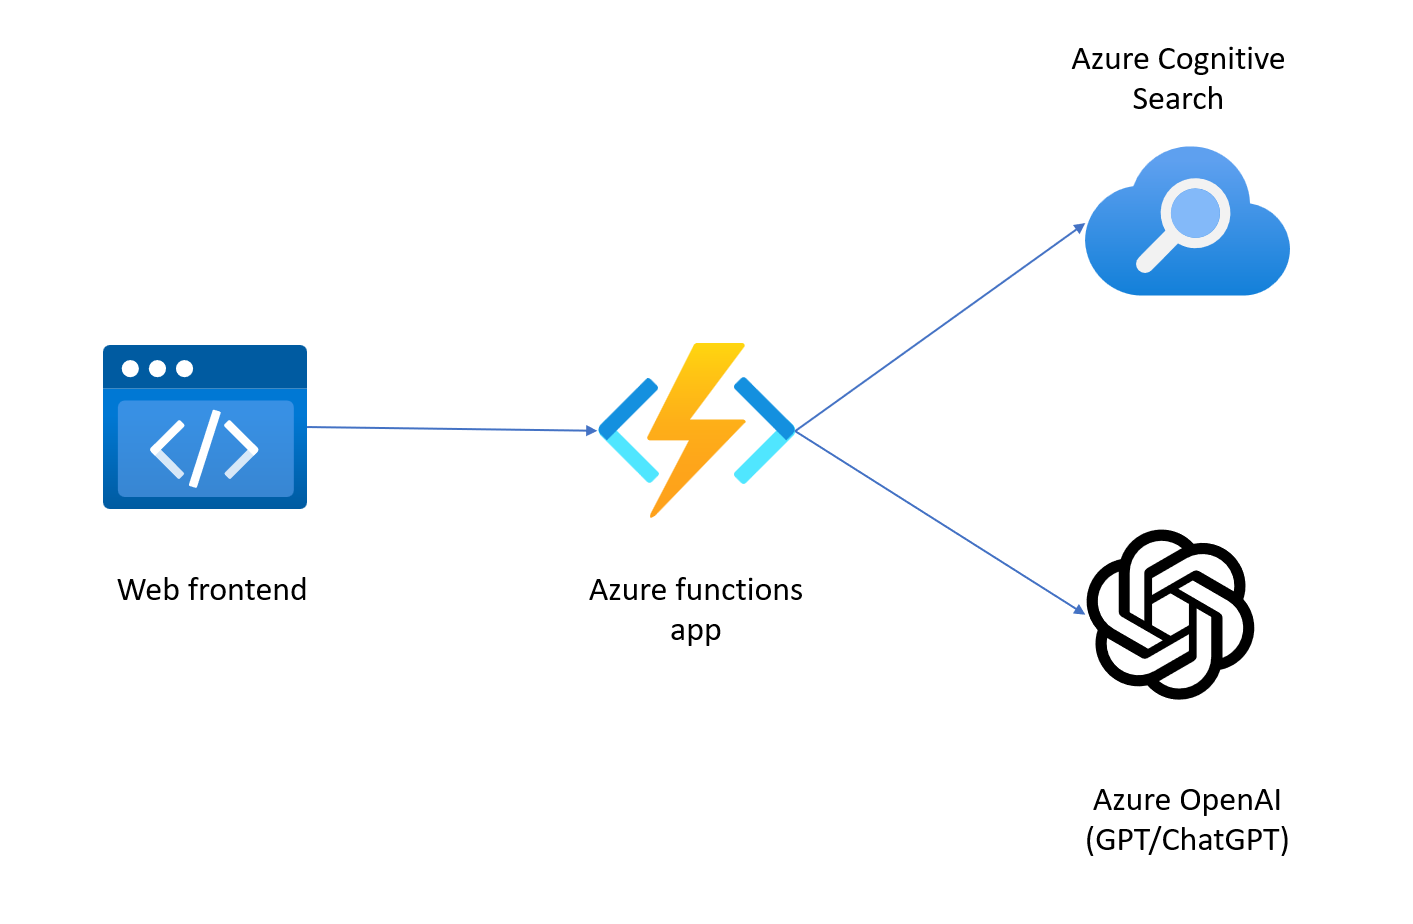
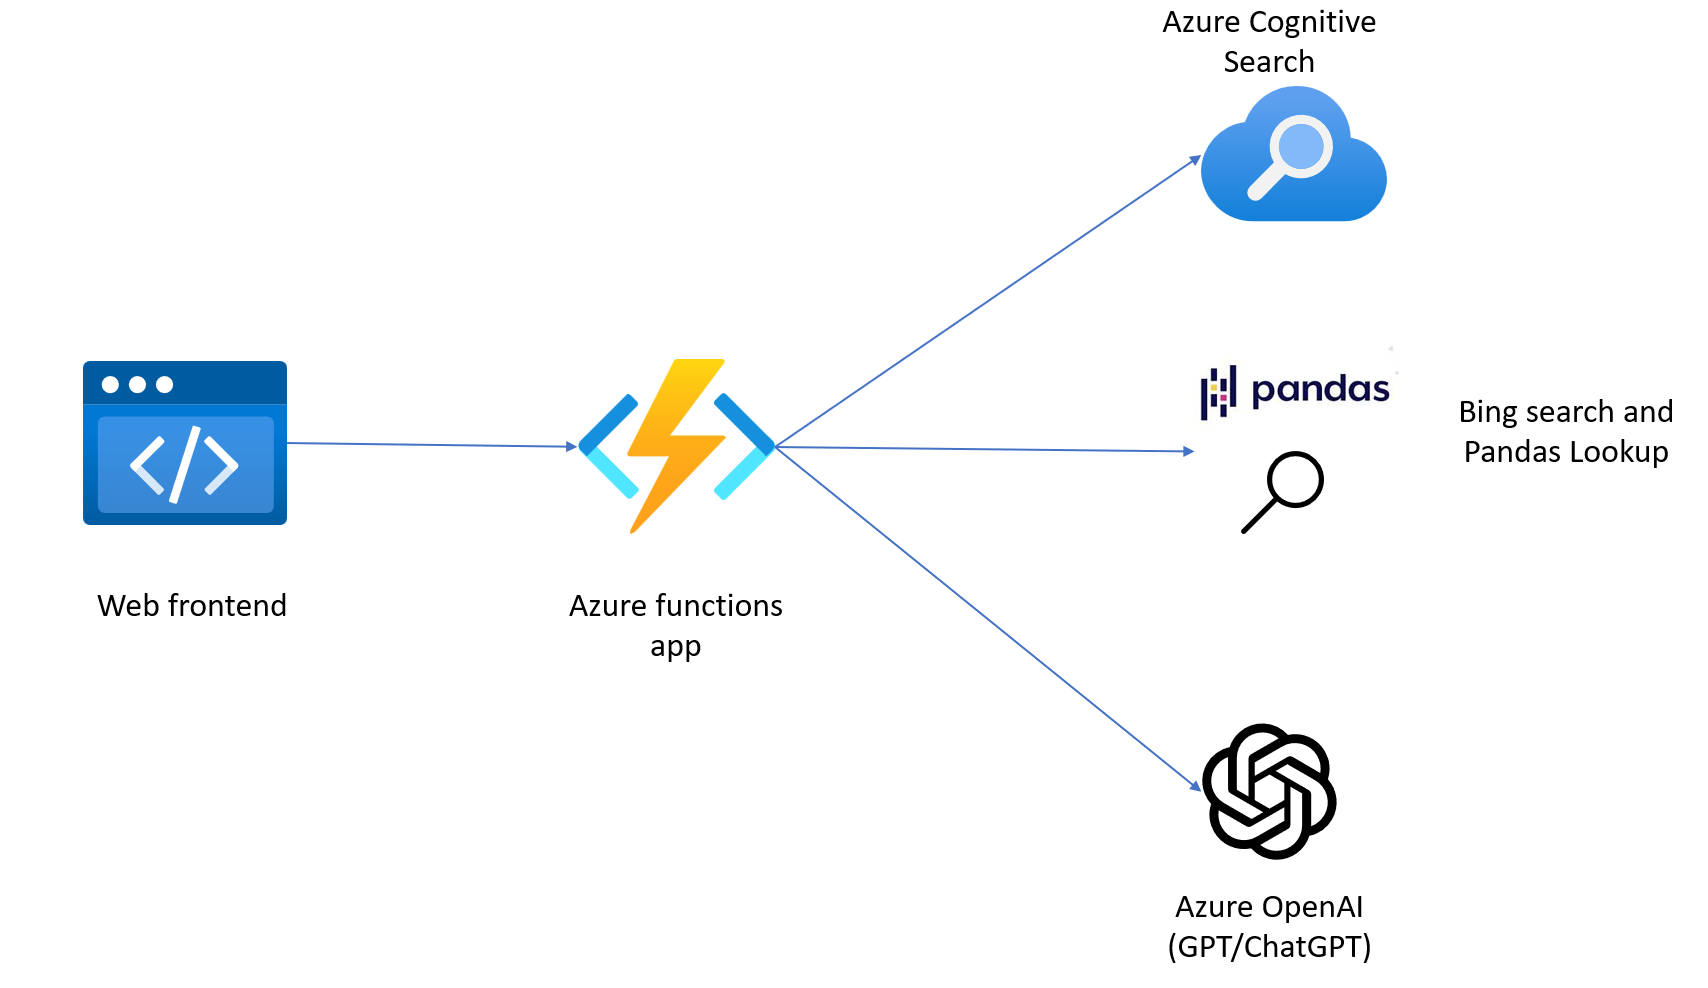
update readme and app components

diff --git a/app/backend/FlaskApp/approaches/readretrieveread.py b/app/backend/FlaskApp/approaches/readretrieveread.py
@@ -10,6 +10,7 @@ from langchain.llms.openai import AzureOpenAI
 from ..langchainadapters import HtmlCallbackHandler
 from ..text import nonewlines
 from ..lookuptool import pandas_lookup, web_search
+from ..clients import BING_SUBSCRIPTION_KEY
 
 # Attempt to answer questions by iteratively evaluating the question to see what information is missing, and once all information
 # is present then formulate an answer. Each iteration consists of two parts: first use GPT to see if we need more information, 
@@ -109,7 +110,10 @@ Thought: {agent_scratchpad}"""
         pandas_tool = Tool(name="PandasLookup", func=lambda x: pandas_lookup(x.lower()), description=self.PandasLookupToolDescription)
         bing_tool = Tool(name="BingSearchLookup", func=lambda q: web_search(q), description=self.BingSearchToolDescription)
         # employee_tool = EmployeeInfoTool("Employee1")
-        tools = [pandas_tool, acs_tool, bing_tool]
+        # Default to pandas and acs tool and use bing_tool only if key is added to config
+        tools = [pandas_tool, acs_tool]
+        if BING_SUBSCRIPTION_KEY:
+            tools.append(bing_tool)
 
         prompt = ZeroShotAgent.create_prompt(
             tools=tools,

diff --git a/README.md b/README.md
@@ -1,10 +1,13 @@
-# ChatGPT + Enterprise data with Azure OpenAI and Cognitive Search
+# ChatGPT + Enterprise data with Azure OpenAI
 
 This demo is based on [azure-search-openai-demo](https://github.com/Azure-Samples/azure-search-openai-demo) and using static web app for frontend and Azure functions for the backend API's.
 
 In addition to [azure-search-openai-demo feature](https://github.com/Azure-Samples/azure-search-openai-demo#features) this repo includes:
 
 - Ability to upload file from UI
+- Update to newer version of langchain(0.0.141)
+- Updated rrr ( read-retrieve-read) approach to use pandas dataframe and Bing search lookup in addition to Azure cognitive search
+  > Note: update azure function config with `BING_SUBSCRIPTION_KEY` to use. Bing API service deployment is not yet included in the `azd` infra deployment
 
 <img src="docs/uploadscreen.png" width="600">
 
